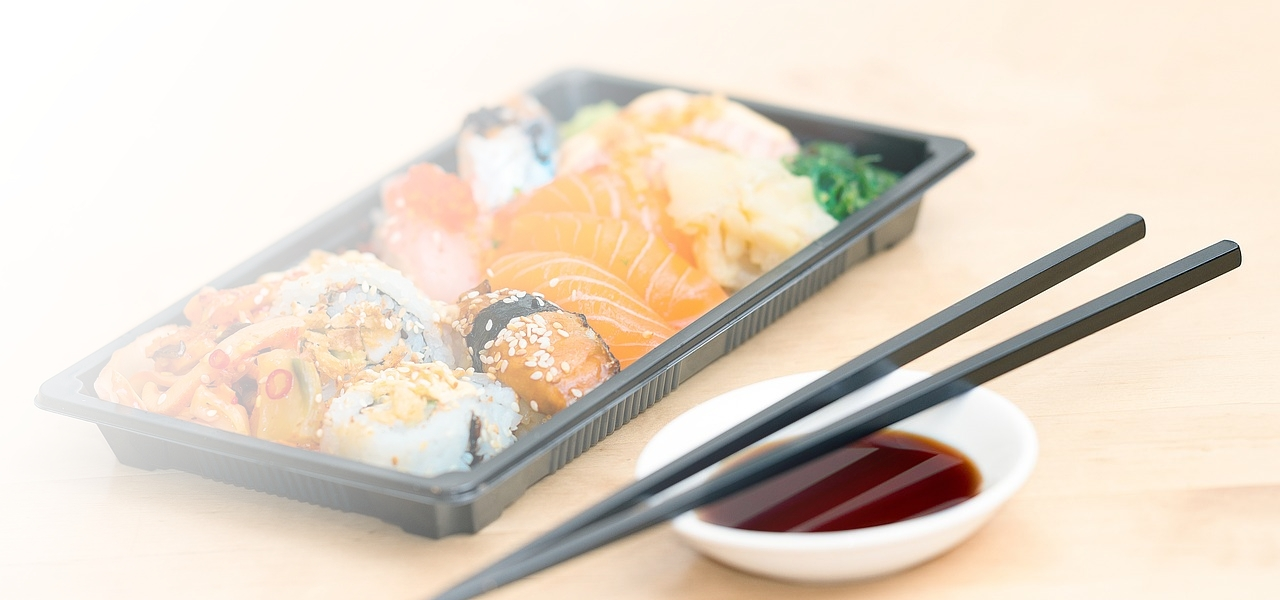
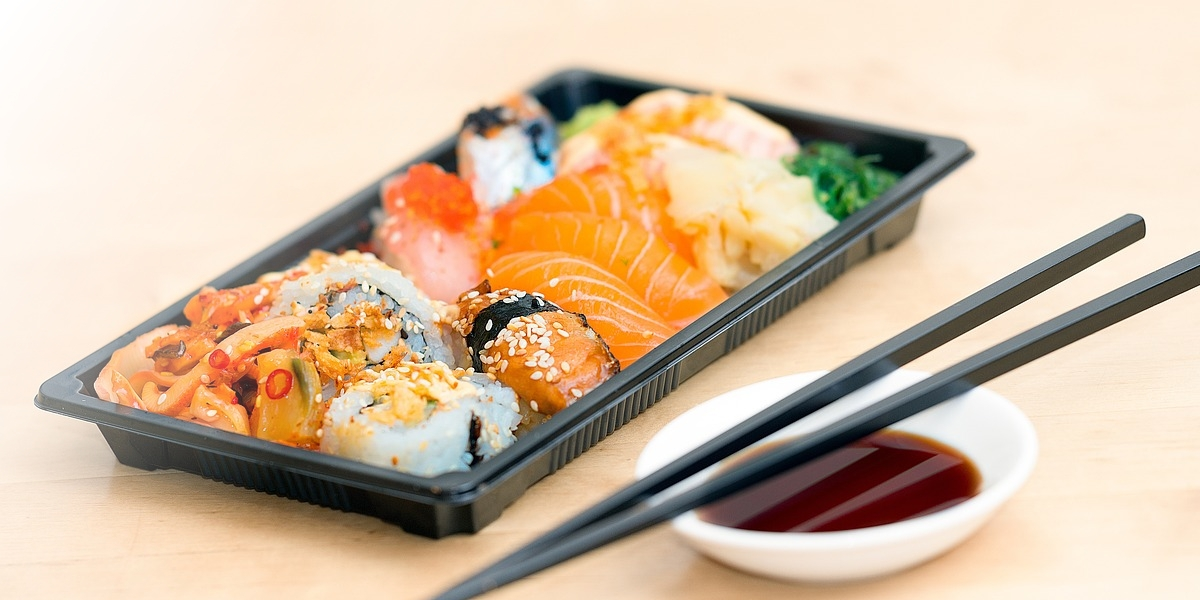
modify photo-height

diff --git a/bestalla.html b/bestalla.html
@@ -61,7 +61,7 @@
       <div class="row p-2">
         <div class="col-sm-6 m-auto"  >
         <div class="card m-1" id="takeout_card" >
-          <img src="images/takeout.jpg" class="card-img-top" alt="tske out sushi">
+          <img src="images/takeout.jpg" class="card-img-top" id="takeout_photo" alt="tske out sushi">
           <div class="card-body">
             <h5 class="card-title text-center">Take out</h5>
             <p class="card-text p-2"><i class="fa-regular fa-clock" style="color: #f4925d;"></i>Hämtningstid:  <br>Mån-Fre, Lunch, 11.00-14.00 <br>Mån-Tors, Middag, 17.00-21.00</p>
@@ -77,7 +77,7 @@
 
         <div class="col-sm-6 m-auto"  >
         <div class="card m-1" id="delivery_card">
-          <img src="images/home_delivery.jpg" class="card-img-top" alt="tske out sushi">
+          <img src="images/home_delivery.jpg" class="card-img-top" id="delivery_photo" alt="take out sushi">
           <div class="card-body">
             <h5 class="card-title text-center">Hemleverans</h5>
             <p class="card-text p-2"><i class="fa-regular fa-clock" style="color: #f4925d;"></i>Leveranstid: <br>Mån-Fre, Lunch, 11.00-12.00 <br></p>

diff --git a/style.css b/style.css
@@ -148,11 +148,19 @@ h4 {
         height: 500px;
     }
 
+    #takeout_photo, #delivery_photo{
+        height: 180px;
+    }
+
 }
 
 @media only screen and (min-width: 1200px){
 
     #takeout_card, #delivery_card{
         height: 550px;
+    }
+
+    #takeout_photo, #delivery_photo{
+        height: 250px;
     }
 }
